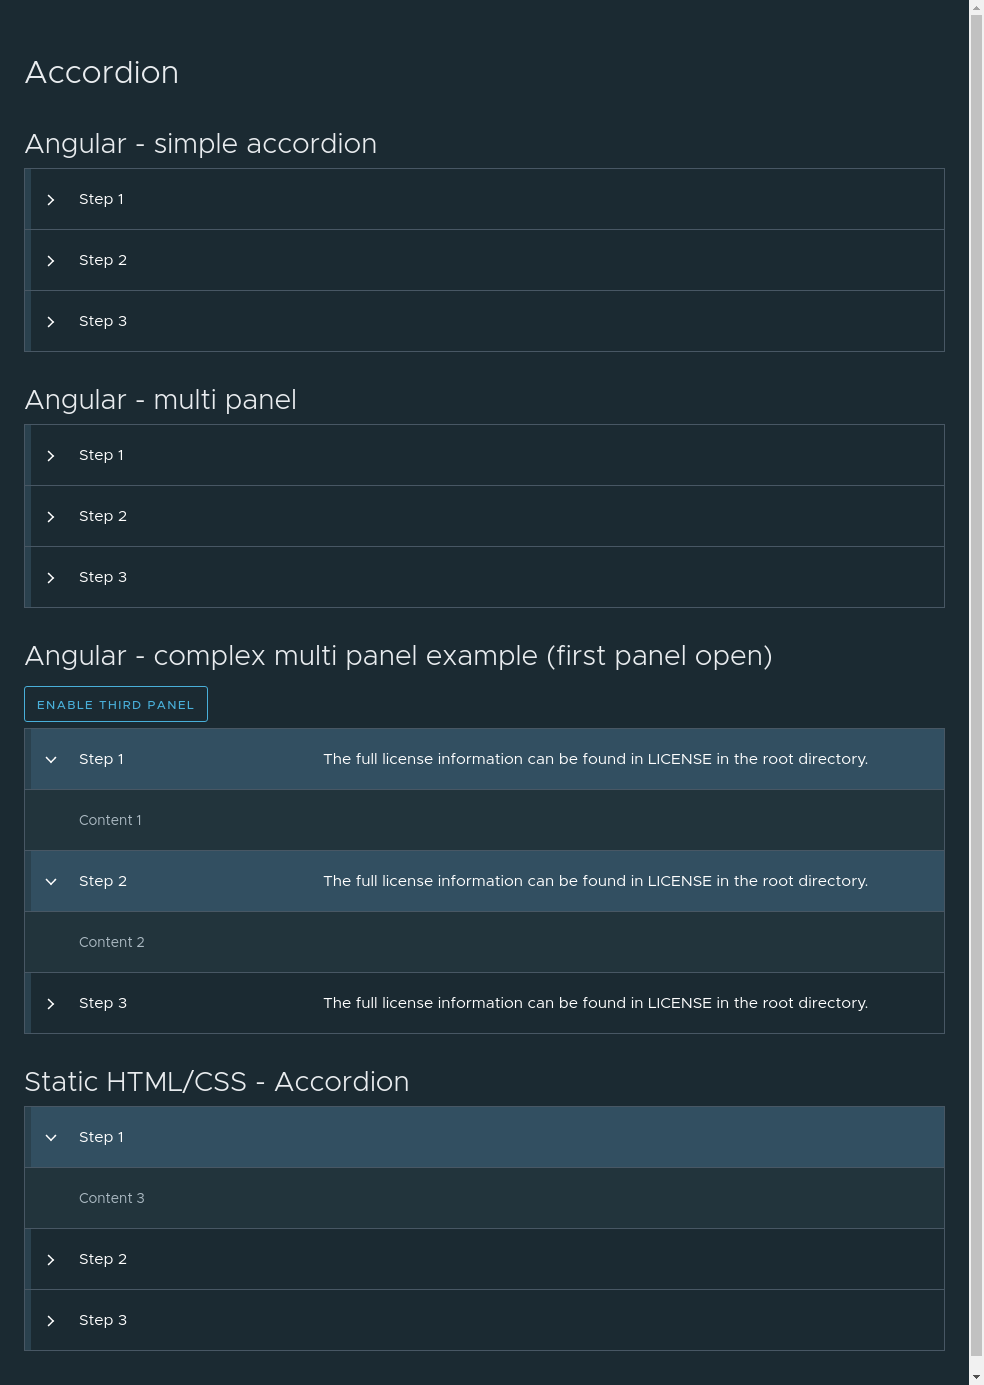
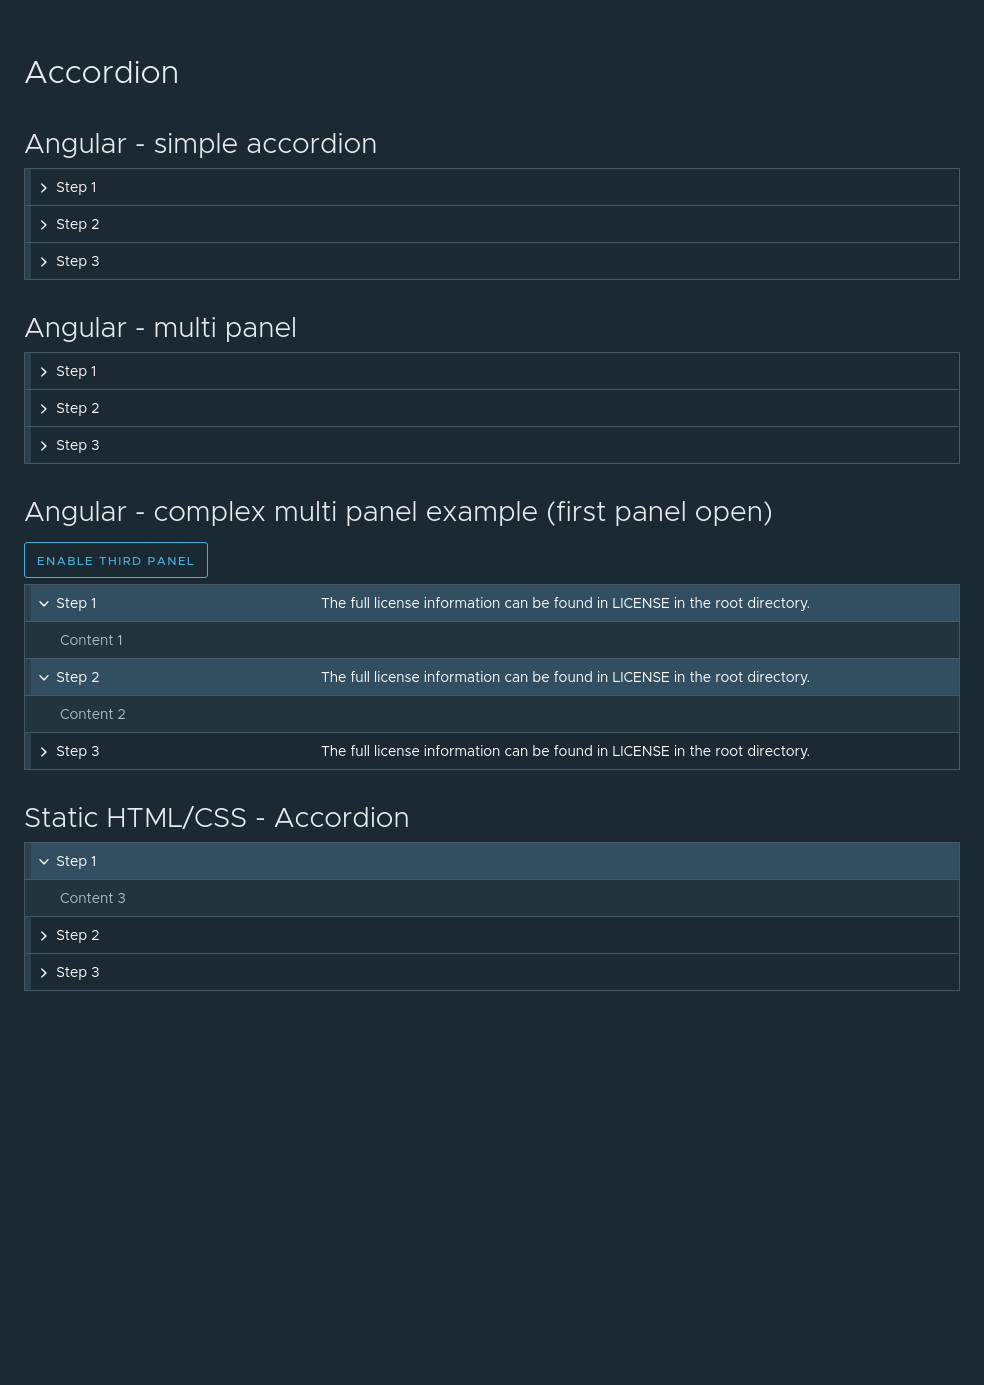
[UI] update accordion to match stackview height
closes #2452

diff --git a/src/clr-angular/accordion/_accordion.clarity.scss b/src/clr-angular/accordion/_accordion.clarity.scss
@@ -192,6 +192,32 @@
     @include screen-reader-only();
   }
 
+  // temporary overrides to match stackview until stepper, accordion and stackview are aligned
+  .clr-accordion:not(.clr-stepper-forms) {
+    .clr-accordion-header-button,
+    .clr-accordion-description {
+      padding: 0.25rem 0.5rem;
+      font-size: 0.58333rem;
+    }
+
+    .clr-accordion-content {
+      padding: 0;
+    }
+
+    .clr-accordion-inner-content {
+      padding: 0.25rem 1.45833rem;
+    }
+
+    .clr-accordion-status {
+      width: 0.8rem;
+
+      clr-icon {
+        width: 0.58333rem;
+        height: 0.58333rem;
+      }
+    }
+  }
+
   // stepper forms mode
   .clr-stepper-forms {
     .clr-accordion-panel-inactive .clr-accordion-angle {
